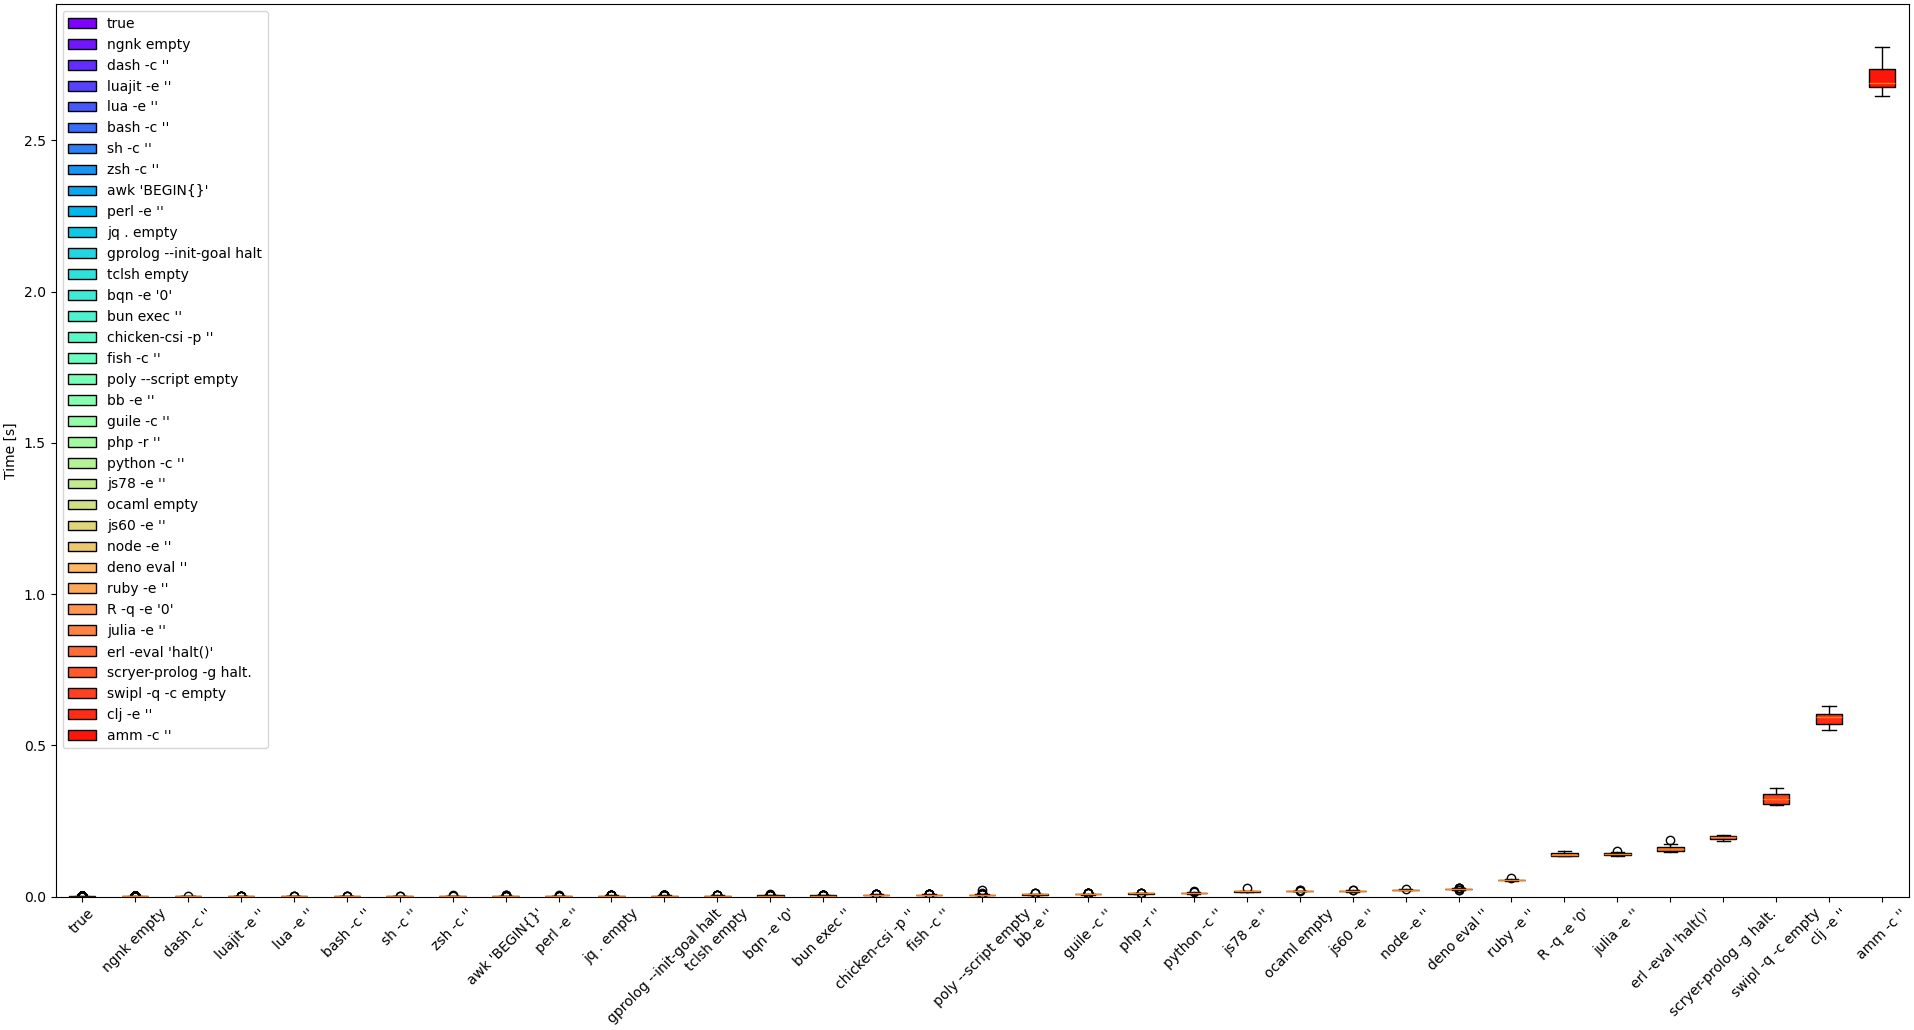
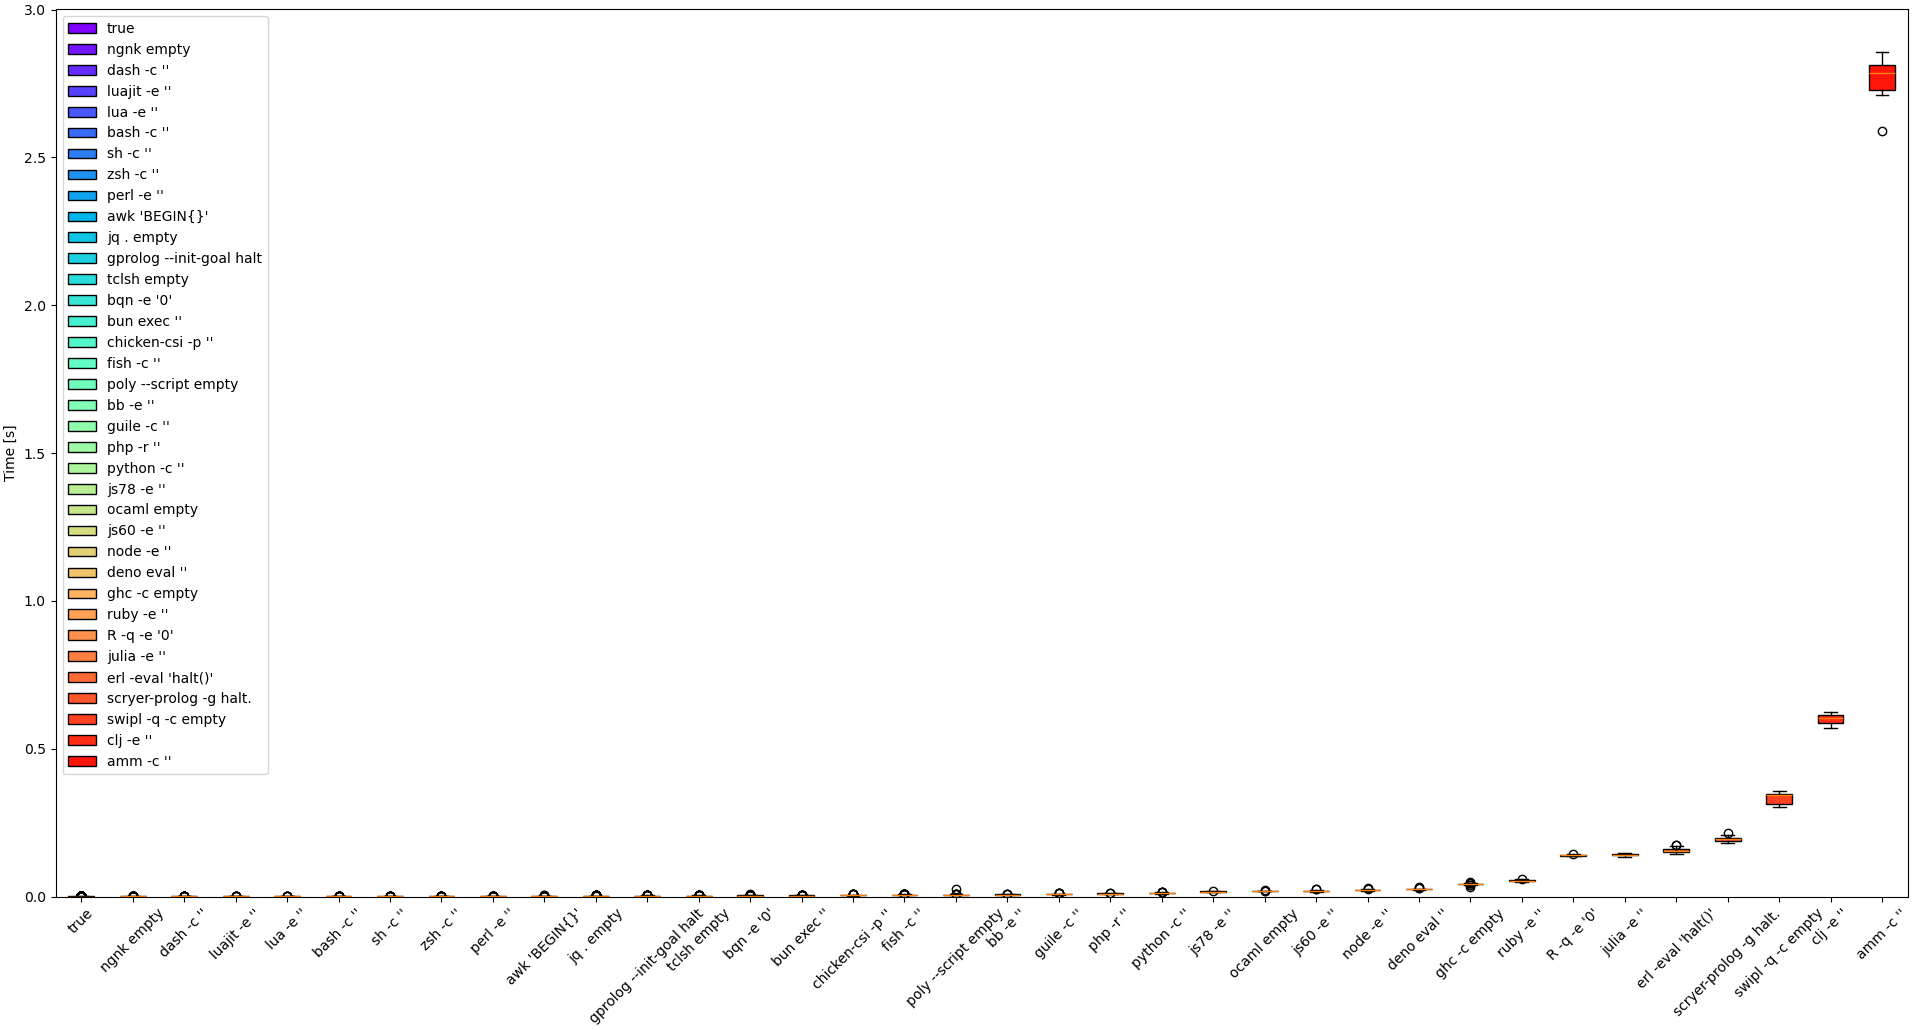
Add ghc

diff --git a/whiskers2.py b/whiskers2.py
@@ -37,8 +37,8 @@ medians = [b["median"] for b in results]
 sorted_indices = sorted(range(len(labels)), key=lambda k: medians[k])
 sorted_labels = [labels[i] for i in sorted_indices]
 sorted_times = [times[i] for i in sorted_indices]
-times = sorted_times[:-8]
-labels = sorted_labels[:-8]
+times = sorted_times[:-9]
+labels = sorted_labels[:-9]
 
 plt.figure(figsize=(10, 6), constrained_layout=True)
 boxplot = plt.boxplot(times, vert=True, patch_artist=True)
